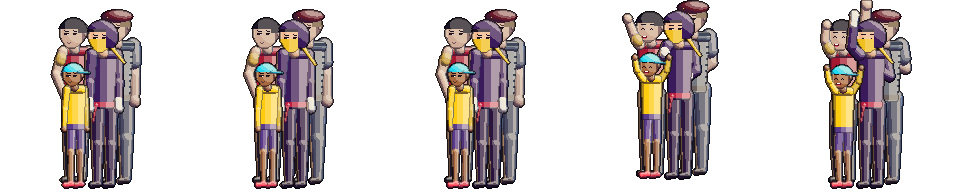
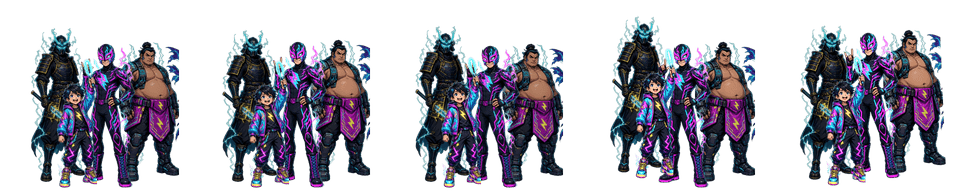
Comic-ink crowd (1x), smoothed crowd drawing

diff --git a/index.html b/index.html
@@ -176,7 +176,7 @@ function drawCrowd(){const SR=IMG.crowd_smooth_right,SL=IMG.crowd_smooth_left;if
  g.save();g.beginPath();g.moveTo(0,yTop);g.lineTo(far.x,yTop);g.lineTo(far.x,far.y);g.lineTo(nr.x,nr.y);g.lineTo(0,nr.y);g.closePath();
  const yr=t2=>far.y+(nrR.y-far.y)*t2;const tm=clamp((mTop-farR.y)/(nrR.y-farR.y),0,1),xm=farR.x+(nrR.x-farR.x)*tm;
  g.moveTo(W,yTop);g.lineTo(farR.x,yTop);g.lineTo(farR.x,farR.y);g.lineTo(xm,Math.max(farR.y,mTop));g.lineTo(W,Math.max(farR.y,mTop));g.closePath();g.clip();
- const calm=t<slowUntil,ex=Math.max(0,heat);
+ const calm=t<slowUntil,ex=Math.max(0,heat);g.imageSmoothingEnabled=true;g.imageSmoothingQuality='high';
  for(const c of CROWD){const q=proj(c.x,c.ly),k=q.s/0.2982*(Q/2);const grp=c.id%3===2,fw=grp?192:96,w=fw*k,h=192*k;if(q.x+w<0||q.x-w>W)continue;
   const ct=t-cheerStart-c.slot*30,cheer=cheerHold||(ct>0&&ct<1800)||(ex>0.5&&((c.id+((t/700)|0))%Math.max(2,Math.round(6-ex*4))===0));
   let im,f,ax;
@@ -184,7 +184,7 @@ function drawCrowd(){const SR=IMG.crowd_smooth_right,SL=IMG.crowd_smooth_left;if
    f=cheer?3+(((t/140)|0)+c.id)%2:[0,1,2,1][(((t+c.ph)/((calm?320:180)/HM()))|0)%4];g.drawImage(im,f*192,0,192,192,Math.round(q.x-ax*k),Math.round(q.y-188*k),Math.round(w),Math.round(h));}
   else{im=c.side?SL:SR;ax=c.side?47:48;f=cheer?8+((((t+c.ph)/70)|0)%6):((((t+c.ph)/((calm?220:120)/HM()))|0)%8);
    g.drawImage(im,f*96,c.row*192,96,192,Math.round(q.x-ax*k),Math.round(q.y-188*k),Math.round(w),Math.round(h));}}
- g.restore();}
+ g.restore();g.imageSmoothingEnabled=false;}
 function textO(str,x,y,s,c,o,sh){o=o||'#120a1c';if(sh)text(str,x+s,y+s+1,s,sh);for(const [dx,dy] of [[-1,0],[1,0],[0,-1],[0,1],[1,1],[-1,1],[1,-1],[-1,-1]])text(str,x+dx,y+dy,s,o);text(str,x,y,s,c);}
 function rect(x,y,w,h,c){g.fillStyle=c;g.fillRect(Math.round(x),Math.round(y),Math.max(1,Math.round(w)),Math.max(1,Math.round(h)));}
 // ---- background (static, built once per resize)
